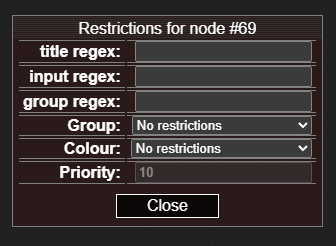
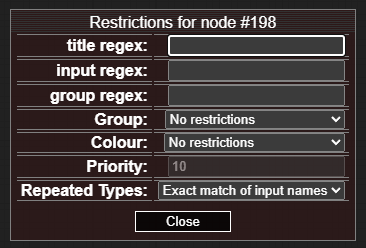
#346

diff --git a/js/i18n.js b/js/i18n.js
@@ -19,12 +19,27 @@ const DISPLAY = {
     "Send only to same color" : "Send only to same color", 
     "Send only to different color" : "Send only to different color",
     "Exact match of input names" : "Exact match of input names",
+    "Match start of input names" : "Match start of input names",
+    "Match end of input names" : "Match end of input names",
 }
 
-export const REPEATED_TYPE_OPTIONS = [ i18n("Exact match of input names"), i18n("Match start of input names"), i18n("Match end of input names"), ]
+export const REPEATED_TYPE_OPTIONS = [ 
+    i18n("Exact match of input names"), 
+    i18n("Match start of input names"), 
+    i18n("Match end of input names"), 
+]
 
-export const GROUP_RESTRICTION_OPTIONS = [i18n("No restrictions"), i18n("Send only within group"), i18n("Send only not within group")]
-export const COLOR_RESTRICTION_OPTIONS = [i18n("No restrictions"), i18n("Send only to same color"), i18n("Send only to different color")]
+export const GROUP_RESTRICTION_OPTIONS = [
+    i18n("No restrictions"), 
+    i18n("Send only within group"), 
+    i18n("Send only not within group")
+]
+
+export const COLOR_RESTRICTION_OPTIONS = [
+    i18n("No restrictions"), 
+    i18n("Send only to same color"), 
+    i18n("Send only to different color")
+]
 
 
 const toTitleCase = (phrase) => {

diff --git a/js/ue_properties_editor.js b/js/ue_properties_editor.js
@@ -103,10 +103,12 @@ function create_editor_html(node) {
     if (!node.properties.ue_properties.priority) priority_edit.style.opacity = 0.5
     add_cell(priority_row,priority_edit)
 
-    const repeated_type_row = add_row(table, i18n("Repeated Types"))
-    const repeated_type_select = document.createElement('select')
-    add_cell(repeated_type_row,repeated_type_select)
-    add_select_options(node, repeated_type_select, REPEATED_TYPE_OPTIONS, `repeated_type_rule`)
+    if (!node.properties.ue_properties.prompt_regexes) {
+        const repeated_type_row = add_row(table, i18n("Repeated Types"))
+        const repeated_type_select = document.createElement('select')
+        add_cell(repeated_type_row,repeated_type_select)
+        add_select_options(node, repeated_type_select, REPEATED_TYPE_OPTIONS, `repeated_type_rule`)
+    }
 
     return table
 }

diff --git a/js/use_everywhere_classes.js b/js/use_everywhere_classes.js
@@ -260,7 +260,7 @@ export class UseEverywhereList {
                 if (connection.link) {
                     const input_regex = (node.properties.ue_properties.prompt_regexes) ? prompt_regex(node,i) : undefined
                     var additional_requirement = null
-                    if (duplicated_input_types.has(connection.type)) {
+                    if (duplicated_input_types.has(connection.type) && !node.properties.ue_properties.prompt_regexes) {
                         const input_name = input.label || input.name
                         if (node.properties.ue_properties?.repeated_type_rule == 0) { // 0 is exact match of input name
                             additional_requirement = (target_input) => { 

diff --git a/js/floating_window.js b/js/floating_window.js
@@ -83,7 +83,7 @@ export class FloatingWindow extends HTMLDivElement {
 
     /** @param {KeyboardEvent} e  */
     handle_keydown(e) {
-        if (e.key === "Escape") {
+        if (e.key === "Escape" || e.key === "Enter") {
             this.hide()
             return
         }

diff --git a/README.md b/README.md
@@ -42,7 +42,6 @@ If you used Anything Everywhere prior to v7, the major improvements are:
 
 - The `Anything Everywhere3` and `Anything Everywhere?` nodes are deprecated, as their features are now part of the standard `Anything Everywhere` node.
 - `Anything Everywhere` nodes now have dynamic inputs, so you can plug as many different things into them as you like.
-  - At present you can only connect one input of any given data type, but this restriction should go away in `7.1`
 - All the restrictions on what nodes data will be sent to are now in a restrictions editor, that can be accessed through the right click menu of the node, or by double-clicking the body of the node.
   - In the restrictions editor you can set title, input, and group regexes, color restrictions, group restrictions, and priority (for when two nodes both match)
   - The green circle is used to indicate that _any_ restrictions are in place; if you hover over a node with restrictions they will appear in a tooltip
@@ -101,9 +100,14 @@ If you select multiple restrictions, all must be satisfied for the node to send.
 
 If any restrictions are applied, the `Anything Everywhere` node gets a green circle in the top left hand corner, and a tooltip if yuo hover the mouse over it.
 
-The final line in the restrictions box is the Priority, which has an automatically calculated value which you can choose to override. 
+Priority has an automatically calculated value which you can choose to override. 
 If two more more `Anything Everywhere` nodes match the same input, the higher priority node is used. If there is a tie, _no connection is made_.
 When there is a tie, if you right-click on the canvas you will find an option to show which nodes are the problem.
+
+`Repeated Types` determines behaviour when more than one input of the same type is connected to an `Anything Everywhere` node.
+In this case an additional constraint is used to disambiguate which inputs match based on the names of the input
+slots on the `Anything Everywhere` node and the target node. 
+Note that you can rename the input slots on the `Anything Everywhere` node by right-clicking on the input dot.
 
 ## Seed Everywhere
 
